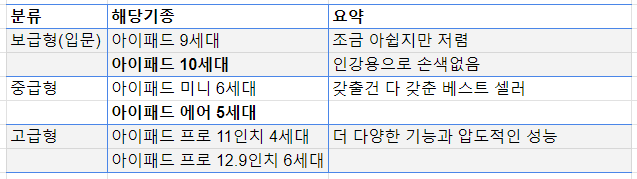
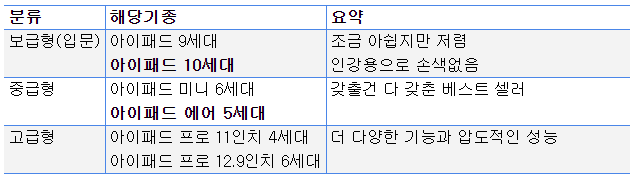
index.md 3

Changed region(s): [[0.0, 0.0, 1.0, 1.0]]

diff --git a/pages/index.md b/pages/index.md
@@ -6,17 +6,54 @@ permalink: /
 
 ## 2023년 아이패드  요약정리
 
-![아이패드 제품별 요약](assets/img/ipad-parts-txt.png)
+| 분류        | 해당기종                                       | 요약                                  |
+| ----------- | ---------------------------------------------- | ------------------------------------- |
+| 보급형 입문 | 아이패드 9<br />**아이패드 10**                      | 인강용으로 손색없음 |
+| 중급형      | 미니 6세대<br />**에어 5세대**                 | 갖출건 다 갖춘 베스트 셀러            |
+| 고급형      | 프로 11인치 4세대<br />**프로 12.9인치 6세대** | 더 다양한 기능과 압도적인 성능        |
 
-| 분류    | 해당기종 | 요약    |
-| :----- | :----- | :----- |
-| 보급형입문 | 아이패드9세대<br />**아이패드10세대**            | 조금 아쉽지만 저렴<br />인강용으로 손색없음 |
-| 중급형     | 미니 6세대<br />**에어 5세대**                 | 갖출건 다 갖춘 베스트 셀러 |
-| 고급형     | 프로 11인치 4세대<br />**프로 12.9인치 6세대** | 더 다양한 기능과 압도적인 성능 |
+<table>
+<colgroup>
+<col width="20%" />
+<col width="30%" />
+<col width="40%" />
+</colgroup>
+<thead>
+<tr class="header">
+<th>분류</th>
+<th>해당기종</th>
+<th>요약</th>
+</tr>
+</thead>
+<tbody>
+<tr>
+<td>보급형</td>
+<td>아이패드10세대</td>
+<td markdown="span">조금 아쉽지만 저렴<br />인강용으로 손색없음</td>
+</tr>
+<tr>
+<td>중급형</td>
+<td>아이패드 에어 5세대</td>
+<td>갖출건 다 갖춘 베스트 셀러</td>
+</tr>
+<tr>
+<td>고급형</td>
+<td markdown="span">프로 11인치 4세대<br />프로 12.9인치 6세대</td>
+<td>더 다양한 기능과 압도적인 성능</td>
+</tr>
+</tbody>
+</table>
 
+|                | 9세대            | **10세대**               | 6세대                    | **5세대**                | 3세대               | **4세대**                   | 5세대               | **6세대**                   |
+| -------------- | ---------------- | ------------------------ | ------------------------ | ------------------------ | ------------------- | --------------------------- | ------------------- | --------------------------- |
+| 크기           | 10.2인치         | **10.9인치**             | 8.3인치                  | **10.9인치**             | 12.9인치            | **11인치**                  | 12.9인치            | **12.9인치**                |
+| 출시년도       | 2021             | **2022**                 | 2021                     | **2022**                 | 2021                | **2022**                    | 2021                | **2022**                    |
+| 디스플레이     | 2160*1620        | **2340\*1640**           | 2266*1488                | **2340\*1640**           | 2388*1688           | **2388\*1688**              | 2732*2048           | **2730\*2048**              |
+| 프로세서       | A13              | **A14**                  | A15                      | **m1**                   | M1                  | **M2**                      | M1                  | **m2**                      |
+| 충전단자       | 라이트닝, 이어폰 | **usb-c 2.0****(1세대)** | **usb-c 3.1****(2세대)** | **usb-c 3.1****(2세대)** | c타입썬더볼트 3지원 | **c타입****썬더볼트 3지원** | c타입썬더볼트 3지원 | **c타입****썬더볼트 3지원** |
+| 애플펜슬       | 1세대            | **1세대**                | 2세대                    | **2세대**                | 2세대               | **2세대**                   | 2세대               | **2세대**                   |
+| 최저사양판매가 | -                | 679,000                  | 769,860                  | 929,000                  | -                   | 1,249,000                   | -                   | 1,729,000                   |
 
-
-![assets/img/docsy-jekyll.png](assets/img/docsy-jekyll.png)
 
 ## Purpose
 
